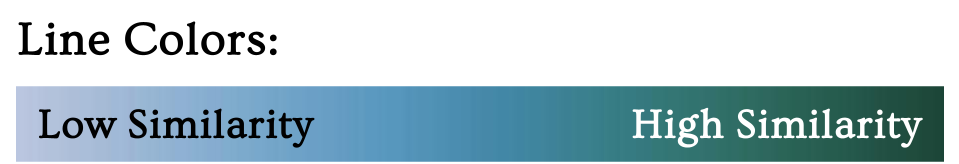
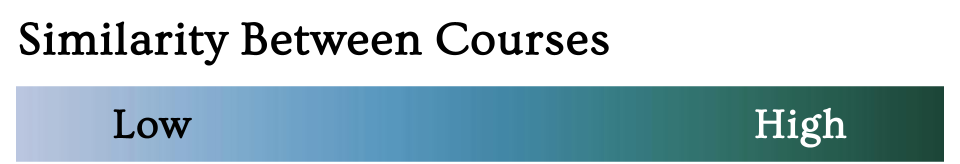
color legend revise

Changed region(s): [[0.0, 0.122, 0.635, 0.3963], [0.635, 0.6402, 0.9677, 0.9146], [0.0302, 0.6402, 0.3326, 0.9146]]

diff --git a/frontend/src/components/GraphPage.css b/frontend/src/components/GraphPage.css
@@ -284,5 +284,5 @@ text {
   position: absolute;
   left: 10px;
   bottom: 25px;
-  width: 300px;
+  width: 310px;
 }
